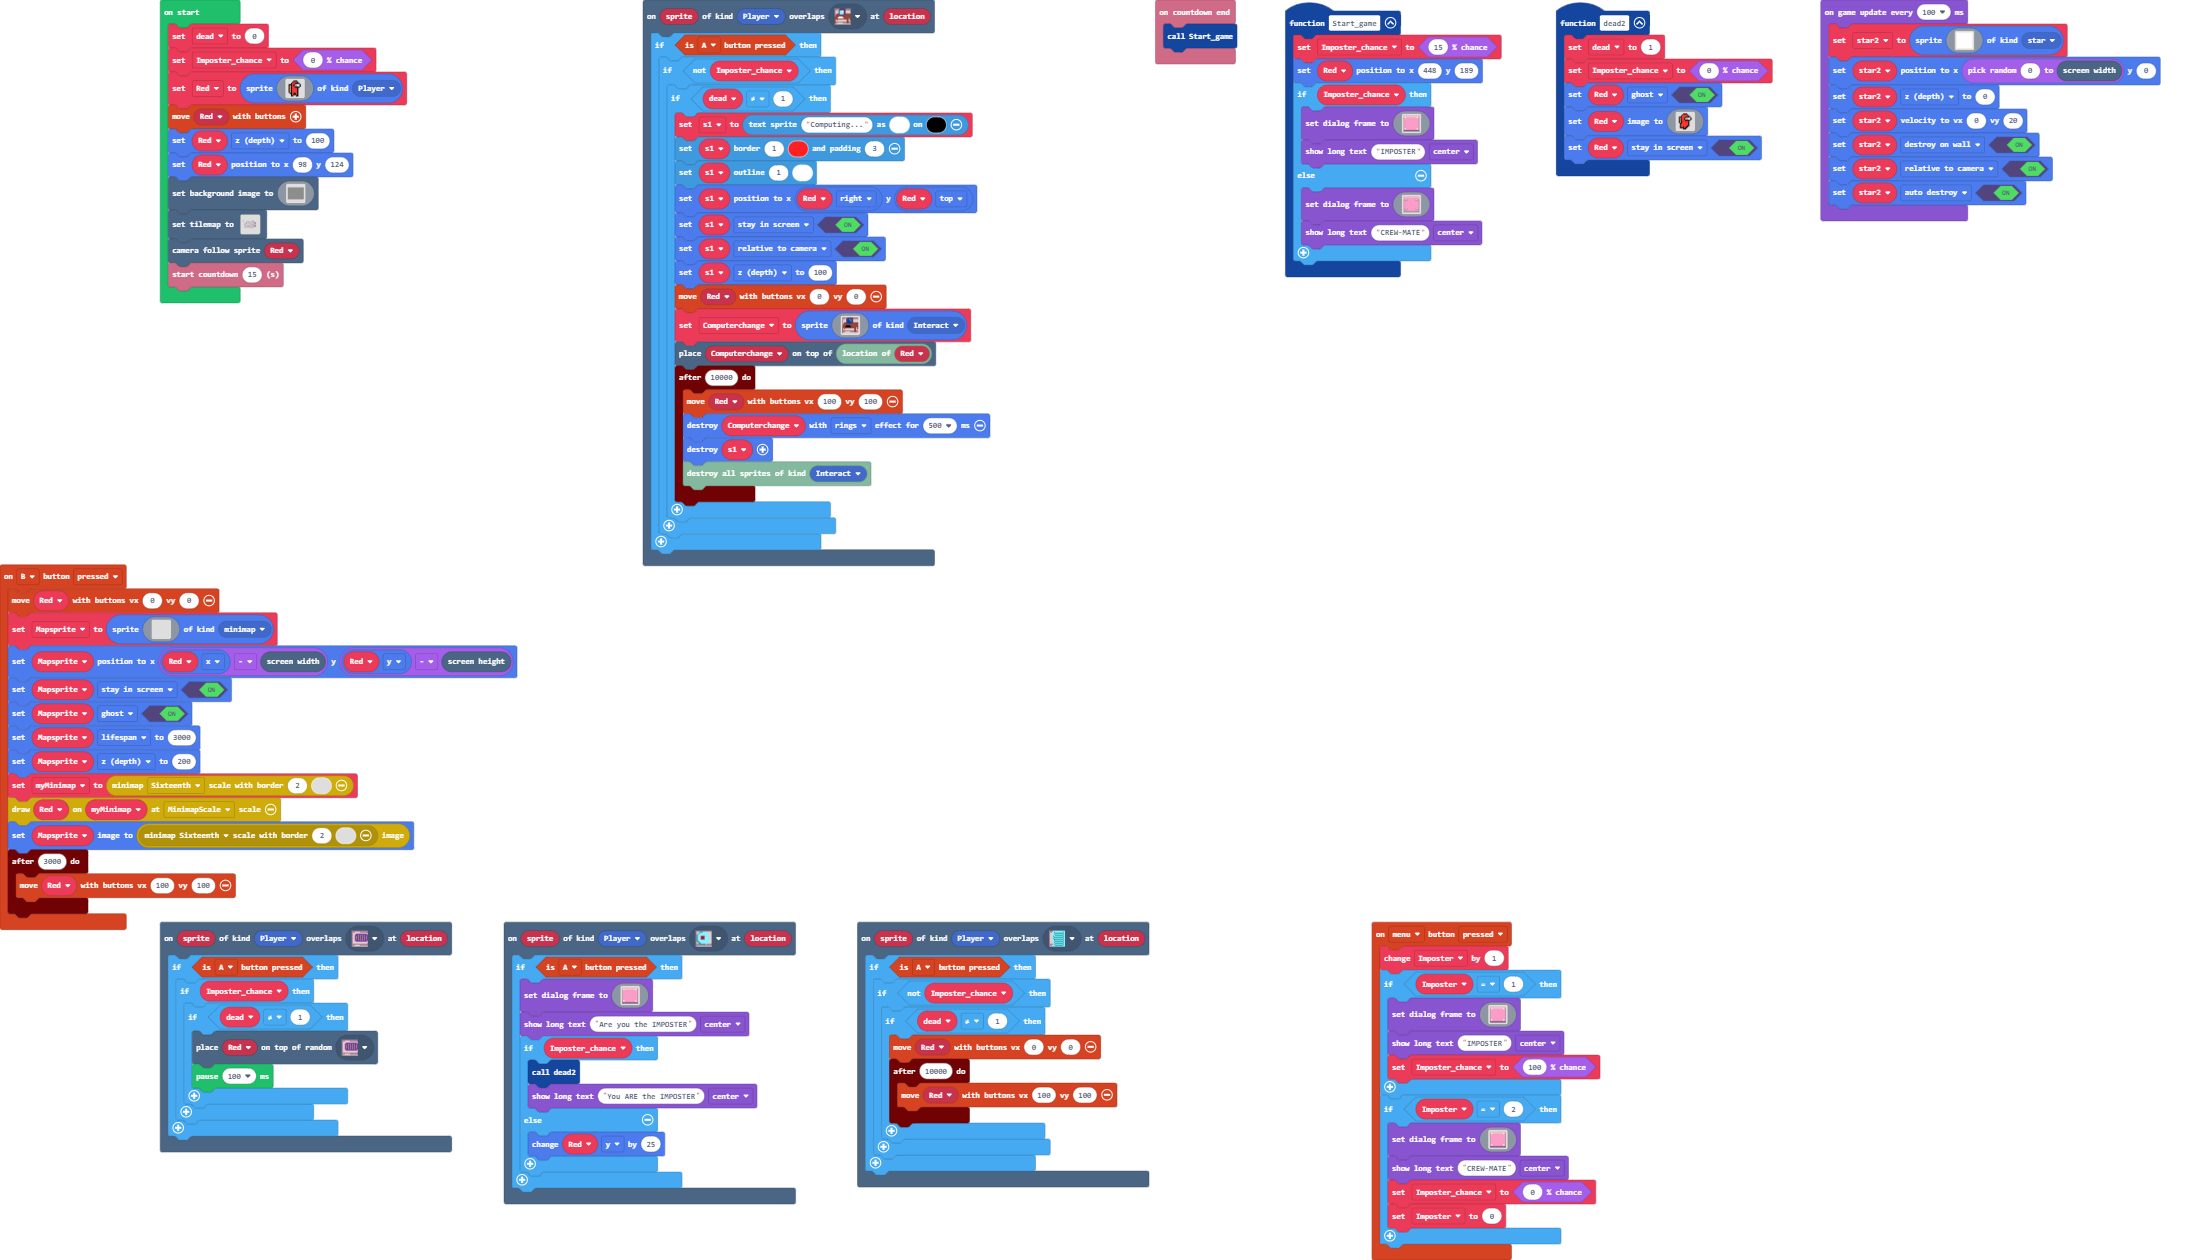
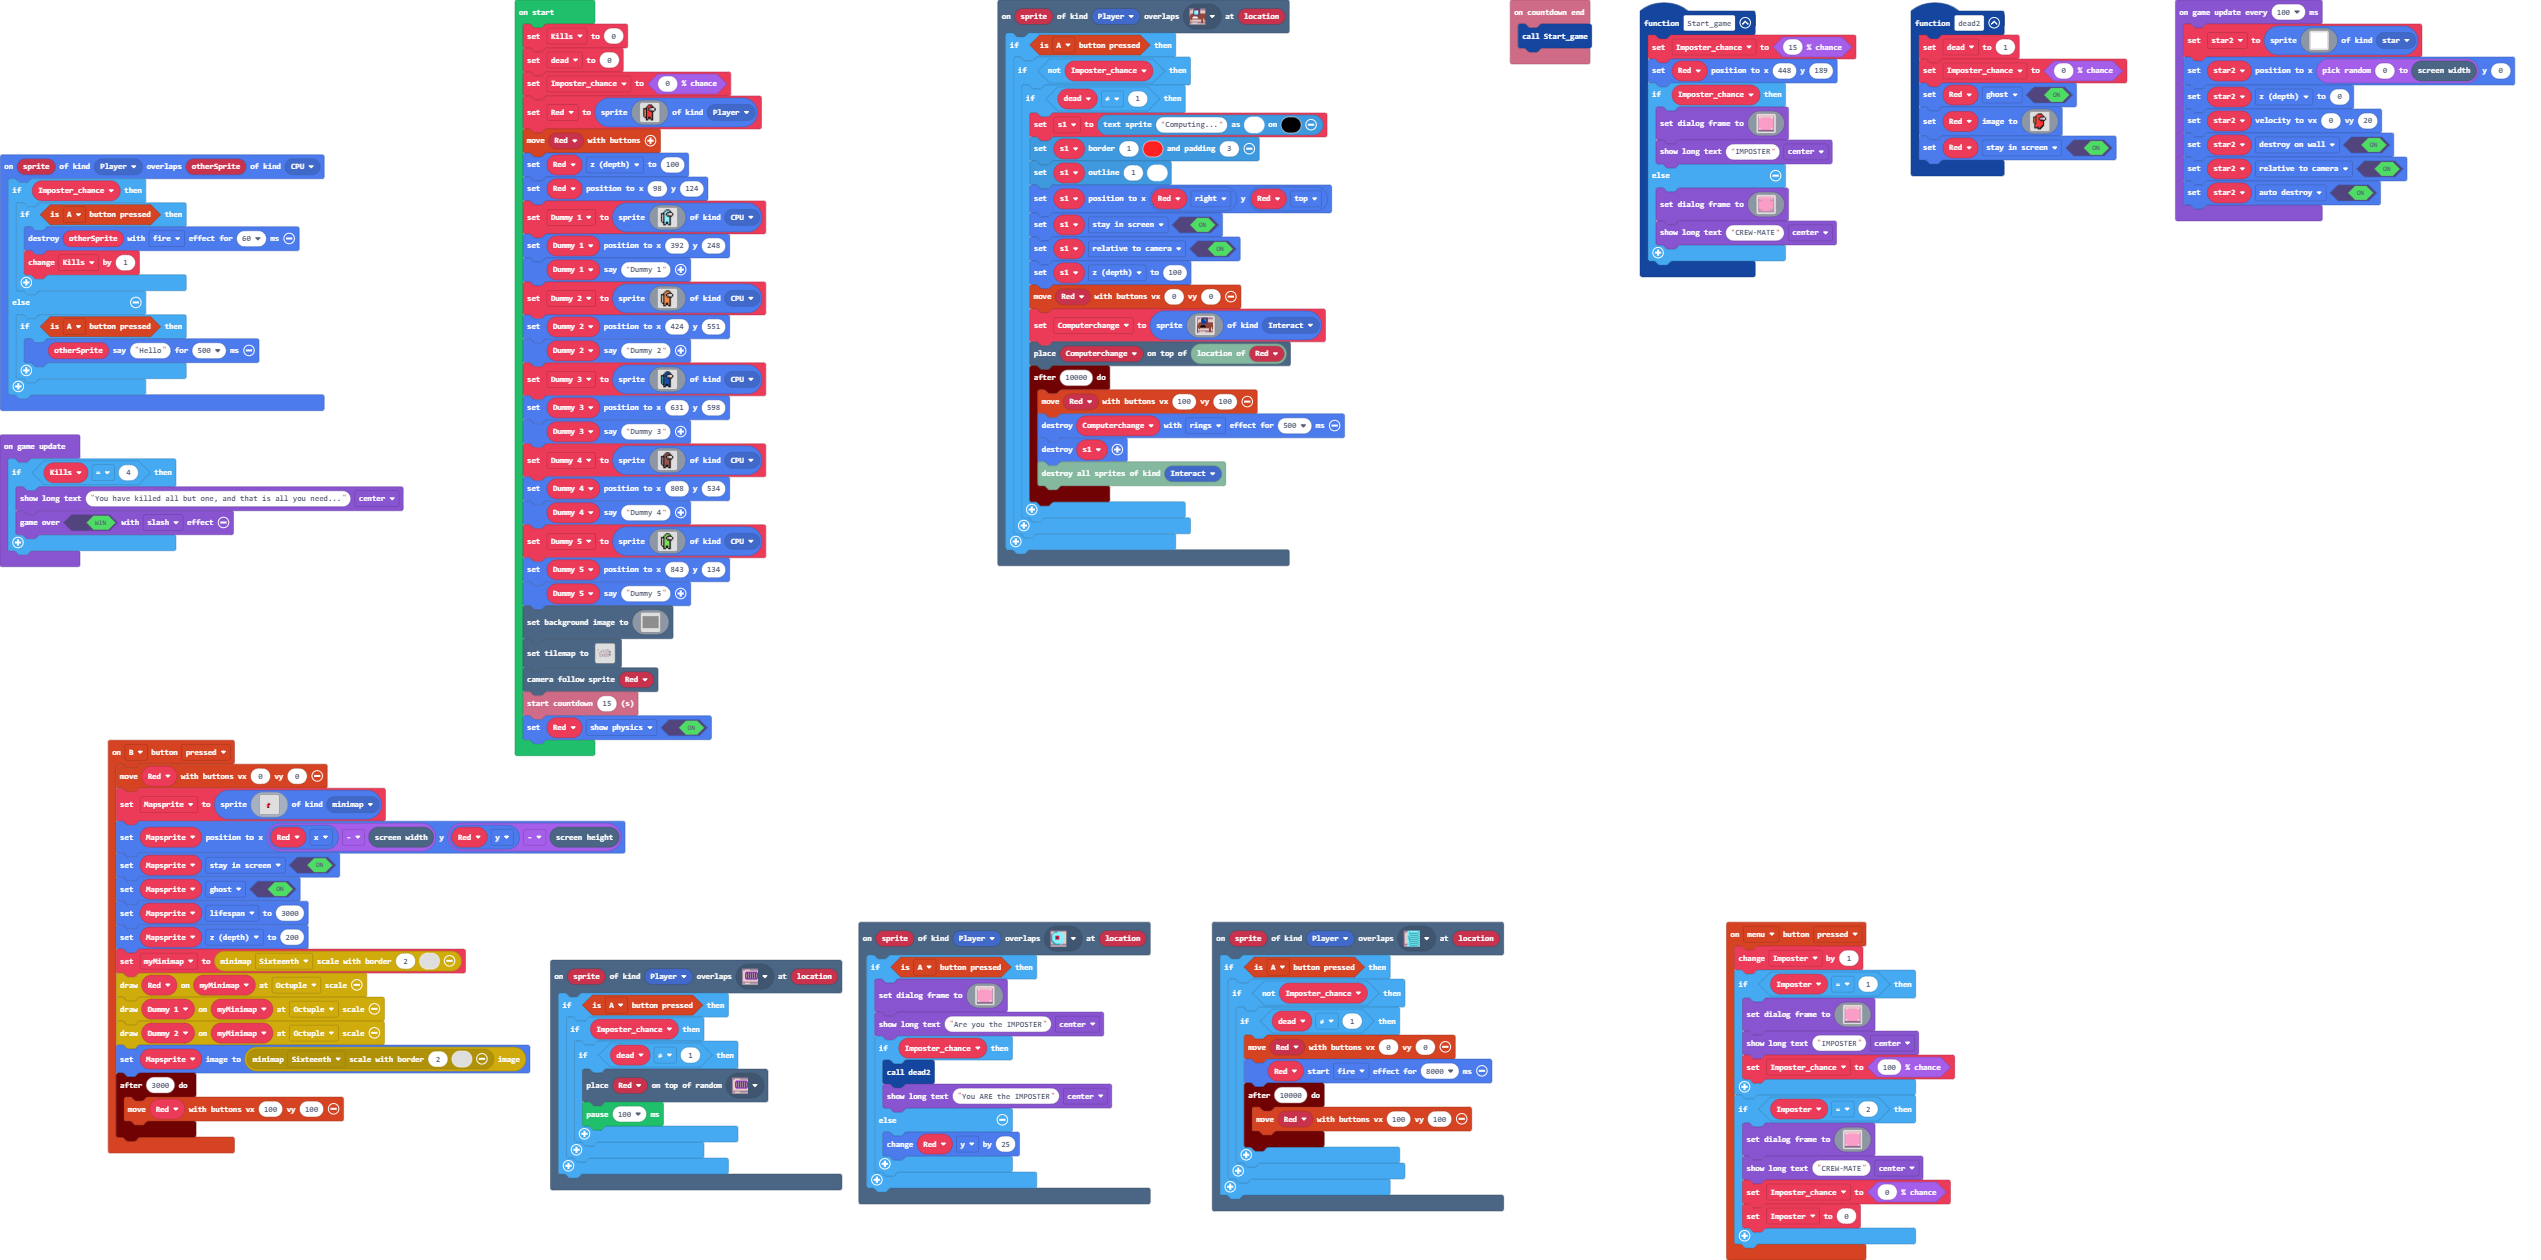
A lot has changed, youll have to find out what it is...

diff --git a/main.ts b/main.ts
@@ -2,6 +2,7 @@ namespace SpriteKind {
     export const star = SpriteKind.create()
     export const minimap = SpriteKind.create()
     export const Interact = SpriteKind.create()
+    export const CPU = SpriteKind.create()
 }
 scene.onOverlapTile(SpriteKind.Player, myTiles.tile2, function (sprite, location) {
     if (controller.A.isPressed()) {
@@ -63,11 +64,11 @@ controller.B.onEvent(ControllerButtonEvent.Pressed, function () {
         . . . . . . . . . . . . . . . . 
         . . . . . . . . . . . . . . . . 
         . . . . . . . . . . . . . . . . 
-        . . . . . . . . . . . . . . . . 
-        . . . . . . . . . . . . . . . . 
-        . . . . . . . . . . . . . . . . 
-        . . . . . . . . . . . . . . . . 
-        . . . . . . . . . . . . . . . . 
+        . . . . . . . 2 . . . . . . . . 
+        . . . . . 3 2 f f . . . . . . . 
+        . . . . . 3 2 2 . . . . . . . . 
+        . . . . . 3 2 2 . . . . . . . . 
+        . . . . . . f f . . . . . . . . 
         . . . . . . . . . . . . . . . . 
         . . . . . . . . . . . . . . . . 
         . . . . . . . . . . . . . . . . 
@@ -80,11 +81,25 @@ controller.B.onEvent(ControllerButtonEvent.Pressed, function () {
     Mapsprite.lifespan = 3000
     Mapsprite.z = 200
     myMinimap = minimap.minimap(MinimapScale.Sixteenth, 2, 0)
-    minimap.includeSprite(myMinimap, Red, MinimapSpriteScale.MinimapScale)
+    minimap.includeSprite(myMinimap, Red, MinimapSpriteScale.Octuple)
+    minimap.includeSprite(myMinimap, Dummy_1, MinimapSpriteScale.Octuple)
+    minimap.includeSprite(myMinimap, Dummy_2, MinimapSpriteScale.Octuple)
     Mapsprite.setImage(minimap.getImage(minimap.minimap(MinimapScale.Sixteenth, 2, 0)))
     timer.after(3000, function () {
         controller.moveSprite(Red, 100, 100)
     })
+})
+sprites.onOverlap(SpriteKind.Player, SpriteKind.CPU, function (sprite, otherSprite) {
+    if (Imposter_chance) {
+        if (controller.A.isPressed()) {
+            otherSprite.destroy(effects.fire, 60)
+            Kills += 1
+        }
+    } else {
+        if (controller.A.isPressed()) {
+            otherSprite.say("Hello", 500)
+        }
+    }
 })
 info.onCountdownEnd(function () {
     Start_game()
@@ -131,6 +146,7 @@ scene.onOverlapTile(SpriteKind.Player, myTiles.tile11, function (sprite, locatio
         if (!(Imposter_chance)) {
             if (dead != 1) {
                 controller.moveSprite(Red, 0, 0)
+                Red.startEffect(effects.fire, 8000)
                 timer.after(10000, function () {
                     controller.moveSprite(Red, 100, 100)
                 })
@@ -292,9 +308,12 @@ let myMinimap: minimap.Minimap = null
 let Mapsprite: Sprite = null
 let Computerchange: Sprite = null
 let s1: TextSprite = null
+let Dummy_2: Sprite = null
+let Dummy_1: Sprite = null
 let Red: Sprite = null
 let Imposter_chance = false
 let dead = 0
+let Kills = 0
 dead = 0
 Imposter_chance = Math.percentChance(0)
 Red = sprites.create(img`
@@ -315,6 +334,91 @@ Red = sprites.create(img`
 controller.moveSprite(Red)
 Red.z = 100
 Red.setPosition(98, 124)
+Dummy_1 = sprites.create(img`
+    . . . . f f f . . . 
+    . . . f 9 9 9 f . . 
+    . . f 9 9 f f f f . 
+    f f f 9 f b d 1 1 f 
+    f d f 9 f b b d d f 
+    f d f 9 9 f f f f . 
+    f d f 9 9 9 9 f . . 
+    f d f 9 9 9 9 f . . 
+    f d f 9 9 9 9 f . . 
+    f d f 9 9 9 9 f . . 
+    . f f 9 f f 9 f . . 
+    . . f 9 f f 9 f . . 
+    . . f f . . f f . . 
+    `, SpriteKind.CPU)
+Dummy_1.setPosition(392, 248)
+Dummy_1.say("Dummy 1")
+Dummy_2 = sprites.create(img`
+    . . . . f f f . . . 
+    . . . f 4 4 4 f . . 
+    . . f 4 4 f f f f . 
+    f f f 4 f b d 1 1 f 
+    f d f 4 f b b d d f 
+    f d f 4 4 f f f f . 
+    f d f 4 4 4 4 f . . 
+    f d f 4 4 4 4 f . . 
+    f d f 4 4 4 4 f . . 
+    f d f 4 4 4 4 f . . 
+    . f f 4 f f 4 f . . 
+    . . f 4 f f 4 f . . 
+    . . f f . . f f . . 
+    `, SpriteKind.CPU)
+Dummy_2.setPosition(424, 551)
+Dummy_2.say("Dummy 2")
+let Dummy_3 = sprites.create(img`
+    . . . . f f f . . . 
+    . . . f 8 8 8 f . . 
+    . . f 8 8 f f f f . 
+    f f f 8 f b d 1 1 f 
+    f 6 f 8 f b b d d f 
+    f 6 f 8 8 f f f f . 
+    f 6 f 8 8 8 8 f . . 
+    f 6 f 8 8 8 8 f . . 
+    f 6 f 8 8 8 8 f . . 
+    f 6 f 8 8 8 8 f . . 
+    . f f 8 f f 8 f . . 
+    . . f 8 f f 8 f . . 
+    . . f f . . f f . . 
+    `, SpriteKind.CPU)
+Dummy_3.setPosition(631, 598)
+Dummy_3.say("Dummy 3")
+let Dummy_4 = sprites.create(img`
+    . . . . f f f . . . 
+    . . . f e e e f . . 
+    . . f e e f f f f . 
+    f f f e f b d 1 1 f 
+    f b f e f b b d d f 
+    f b f e e f f f f . 
+    f b f e e e e f . . 
+    f b f e e e e f . . 
+    f b f e e e e f . . 
+    f b f e e e e f . . 
+    . f f e f f e f . . 
+    . . f e f f e f . . 
+    . . f f . . f f . . 
+    `, SpriteKind.CPU)
+Dummy_4.setPosition(808, 534)
+Dummy_4.say("Dummy 4")
+let Dummy_5 = sprites.create(img`
+    . . . . f f f . . . 
+    . . . f 7 7 7 f . . 
+    . . f 7 7 f f f f . 
+    f f f 7 f b d 1 1 f 
+    f d f 7 f b b d d f 
+    f d f 7 7 f f f f . 
+    f d f 7 7 7 7 f . . 
+    f d f 7 7 7 7 f . . 
+    f d f 7 7 7 7 f . . 
+    f d f 7 7 7 7 f . . 
+    . f f 7 f f 7 f . . 
+    . . f 7 f f 7 f . . 
+    . . f f . . f f . . 
+    `, SpriteKind.CPU)
+Dummy_5.setPosition(843, 134)
+Dummy_5.say("Dummy 5")
 scene.setBackgroundImage(img`
     ffffffffffffffffffffffffffffffffffffffffffffffffffffffffffffffffffffffffffffffffffffffffffffffffffffffffffffffffffffffffffffffffffffffffffffffffffffffffffffffff
     ffffffffffffffffffffffffffffffffffffffffffffffffffffffffffffffffffffffffffffffffffffffffffffffffffffffffffffffffffffffffffffffffffffffffffffffffffffffffffffffff
@@ -440,6 +544,13 @@ scene.setBackgroundImage(img`
 tiles.setTilemap(tilemap`level_1`)
 scene.cameraFollowSprite(Red)
 info.startCountdown(15)
+Red.setFlag(SpriteFlag.ShowPhysics, true)
+game.onUpdate(function () {
+    if (Kills == 4) {
+        game.showLongText("You have killed all but one, and that is all you need...", DialogLayout.Center)
+        game.over(true, effects.slash)
+    }
+})
 game.onUpdateInterval(100, function () {
     star2 = sprites.create(img`
         1 
